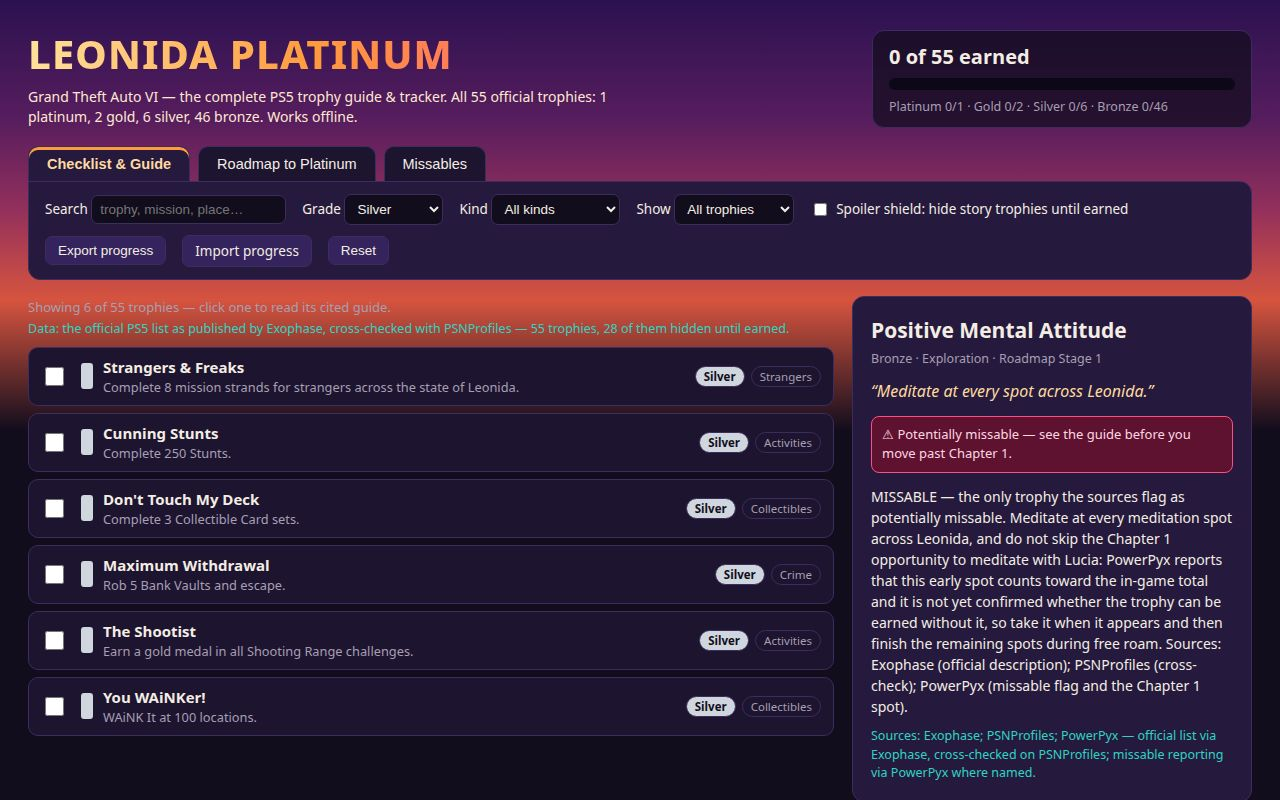
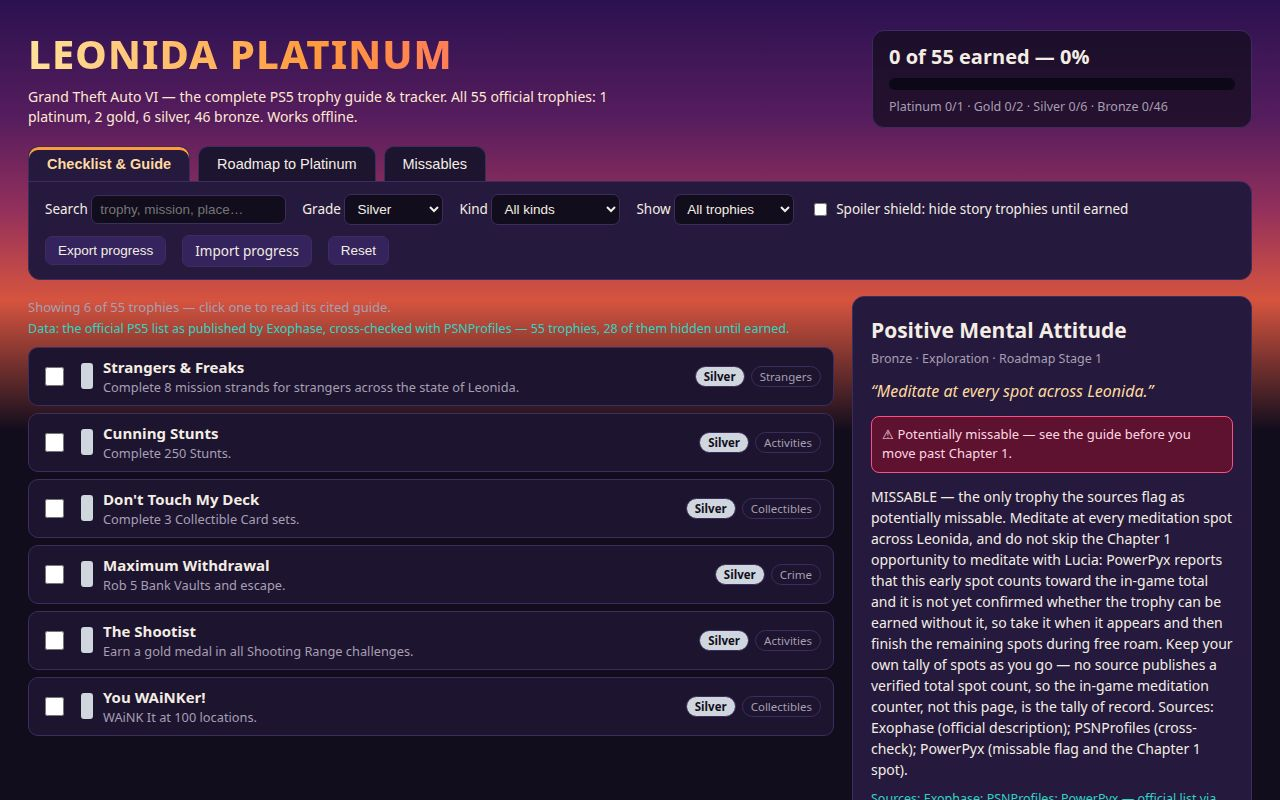
Revise: progress percentage, earned-name tint, screenshot size guard, search shortcut, fuller missable note

Changed region(s): [[0.6562, 0.7812, 0.9688, 1.0], [0.8125, 0.0625, 0.8438, 0.0938]]

diff --git a/app/app.js b/app/app.js
@@ -96,7 +96,8 @@ function matchesFilters(trophy) {
 function renderProgress() {
   const total = state.trophies.length;
   const done = state.earned.size;
-  document.getElementById("progress-label").textContent = `${done} of ${total} earned`;
+  const pct = total ? Math.round((done / total) * 100) : 0;
+  document.getElementById("progress-label").textContent = `${done} of ${total} earned — ${pct}%`;
   document.getElementById("progress-fill").style.width = total ? `${(done / total) * 100}%` : "0%";
   const parts = ["platinum", "gold", "silver", "bronze"].map((grade) => {
     const all = state.trophies.filter((t) => t.grade === grade);

diff --git a/app/index.html b/app/index.html
@@ -95,6 +95,7 @@
 </section>
 
 <footer id="colophon">
+  <p>Tip: press <kbd>/</kbd> anywhere on this page to jump to the trophy search.</p>
   <p>Sources: official trophy names, descriptions and grades — Exophase, “Grand Theft Auto VI Trophies — PS5”, cross-checked with PSNProfiles (trophies/43531-grand-theft-auto-vi). Missable reporting — PowerPyx, GTA 6 trophy guide &amp; roadmap. Guides are this entry's own words; a source is cited, never copied. No Rockstar Games logo or artwork is used; the Leonida neon-sunset look is original CSS.</p>
 </footer>
 

diff --git a/app/style.css b/app/style.css
@@ -72,6 +72,7 @@ body {
 .trophy:hover { border-color: var(--sun); }
 .trophy.selected { border-color: var(--pink); box-shadow: 0 0 0 1px var(--pink); }
 .trophy.earned { opacity: .78; }
+.trophy.earned .t-name { color: var(--teal); }
 .trophy input[type="checkbox"] { width: 19px; height: 19px; accent-color: var(--teal); cursor: pointer; }
 .swatch { width: 12px; height: 26px; border-radius: 3px; }
 .swatch.platinum { background: var(--platinum); } .swatch.gold { background: var(--gold); }

diff --git a/main.ts b/main.ts
@@ -48,4 +48,4 @@ if (trophyCount !== 55) {
 }
 
 writeFileSync(join(outputDir, "dossier.json"), buildDossier(outputDir, GATE_LIMITS));
-console.log(`Leonida Platinum handed in: app/ + ${shotCount} screenshots + dossier.json -> ${outputDir}`);
+console.log(`Leonida Platinum handed in: app/ (${trophyCount} trophies) + ${shotCount} screenshots + dossier.json -> ${outputDir}`);

diff --git a/README.md b/README.md
@@ -15,7 +15,8 @@ An offline guide and tracker for all **55 PlayStation 5 trophies of Grand Theft 
   import of your progress as a JSON file.
 - **Filters & search** — by grade, by kind (story, strangers, collectibles, activities,
   exploration, crime, combat, economy, secret, completion), by earned / remaining /
-  missable-only, and by free text.
+  missable-only, and by free text. Press `/` anywhere to jump to the search box.
+  The progress header always shows the earned count, a percentage, and per-grade counts.
 - **Spoiler shield** — a setting that blurs story trophies' names and descriptions
   until you have earned them.
 - **Roadmap to the platinum** — a five-stage path built from the official descriptions:
